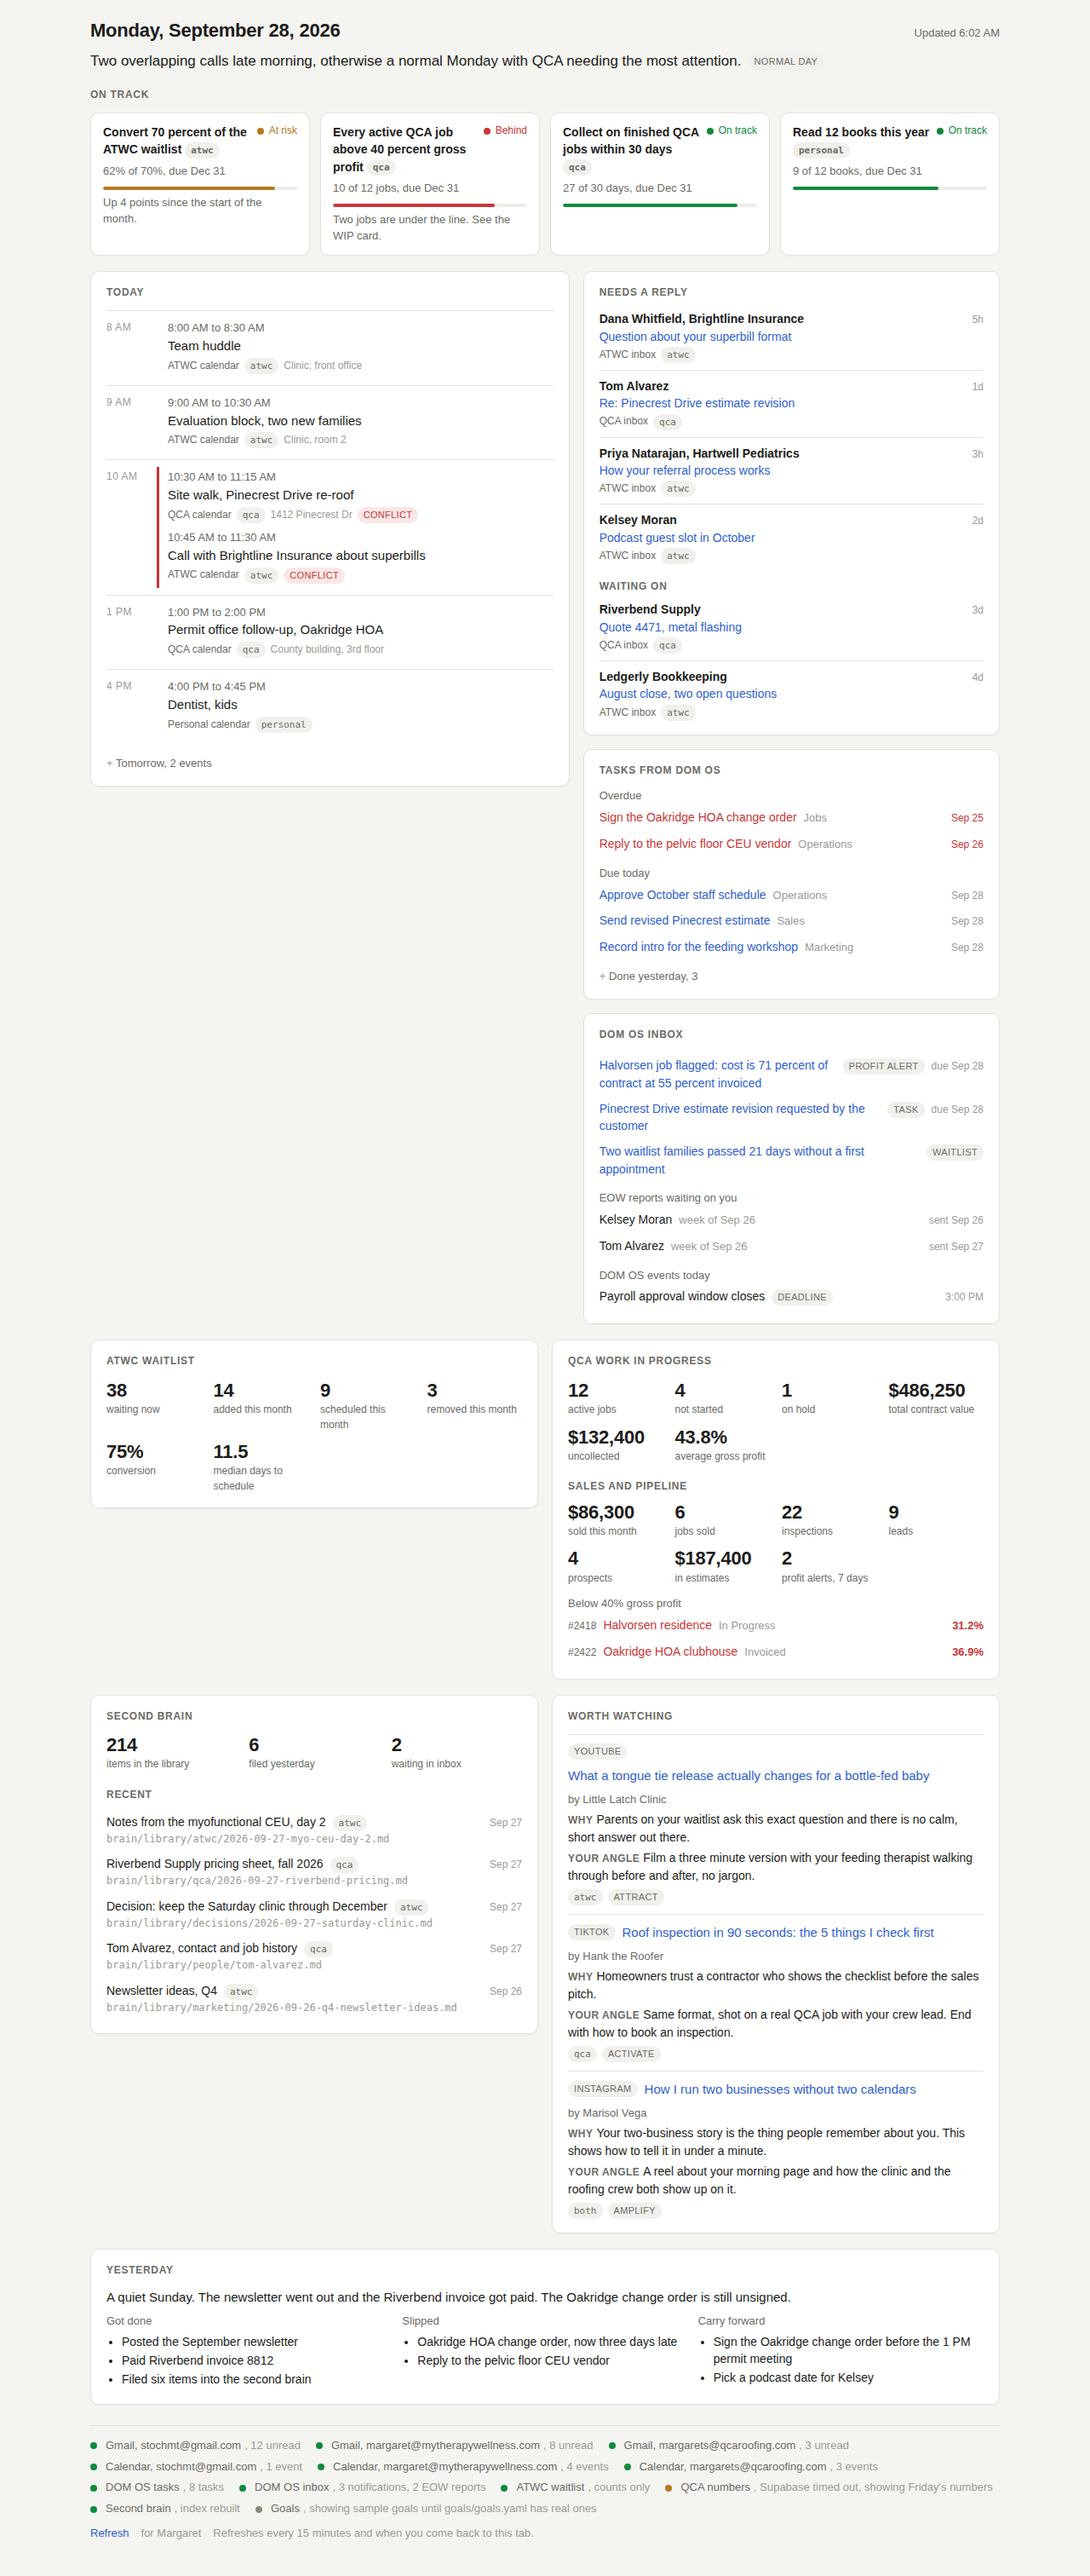
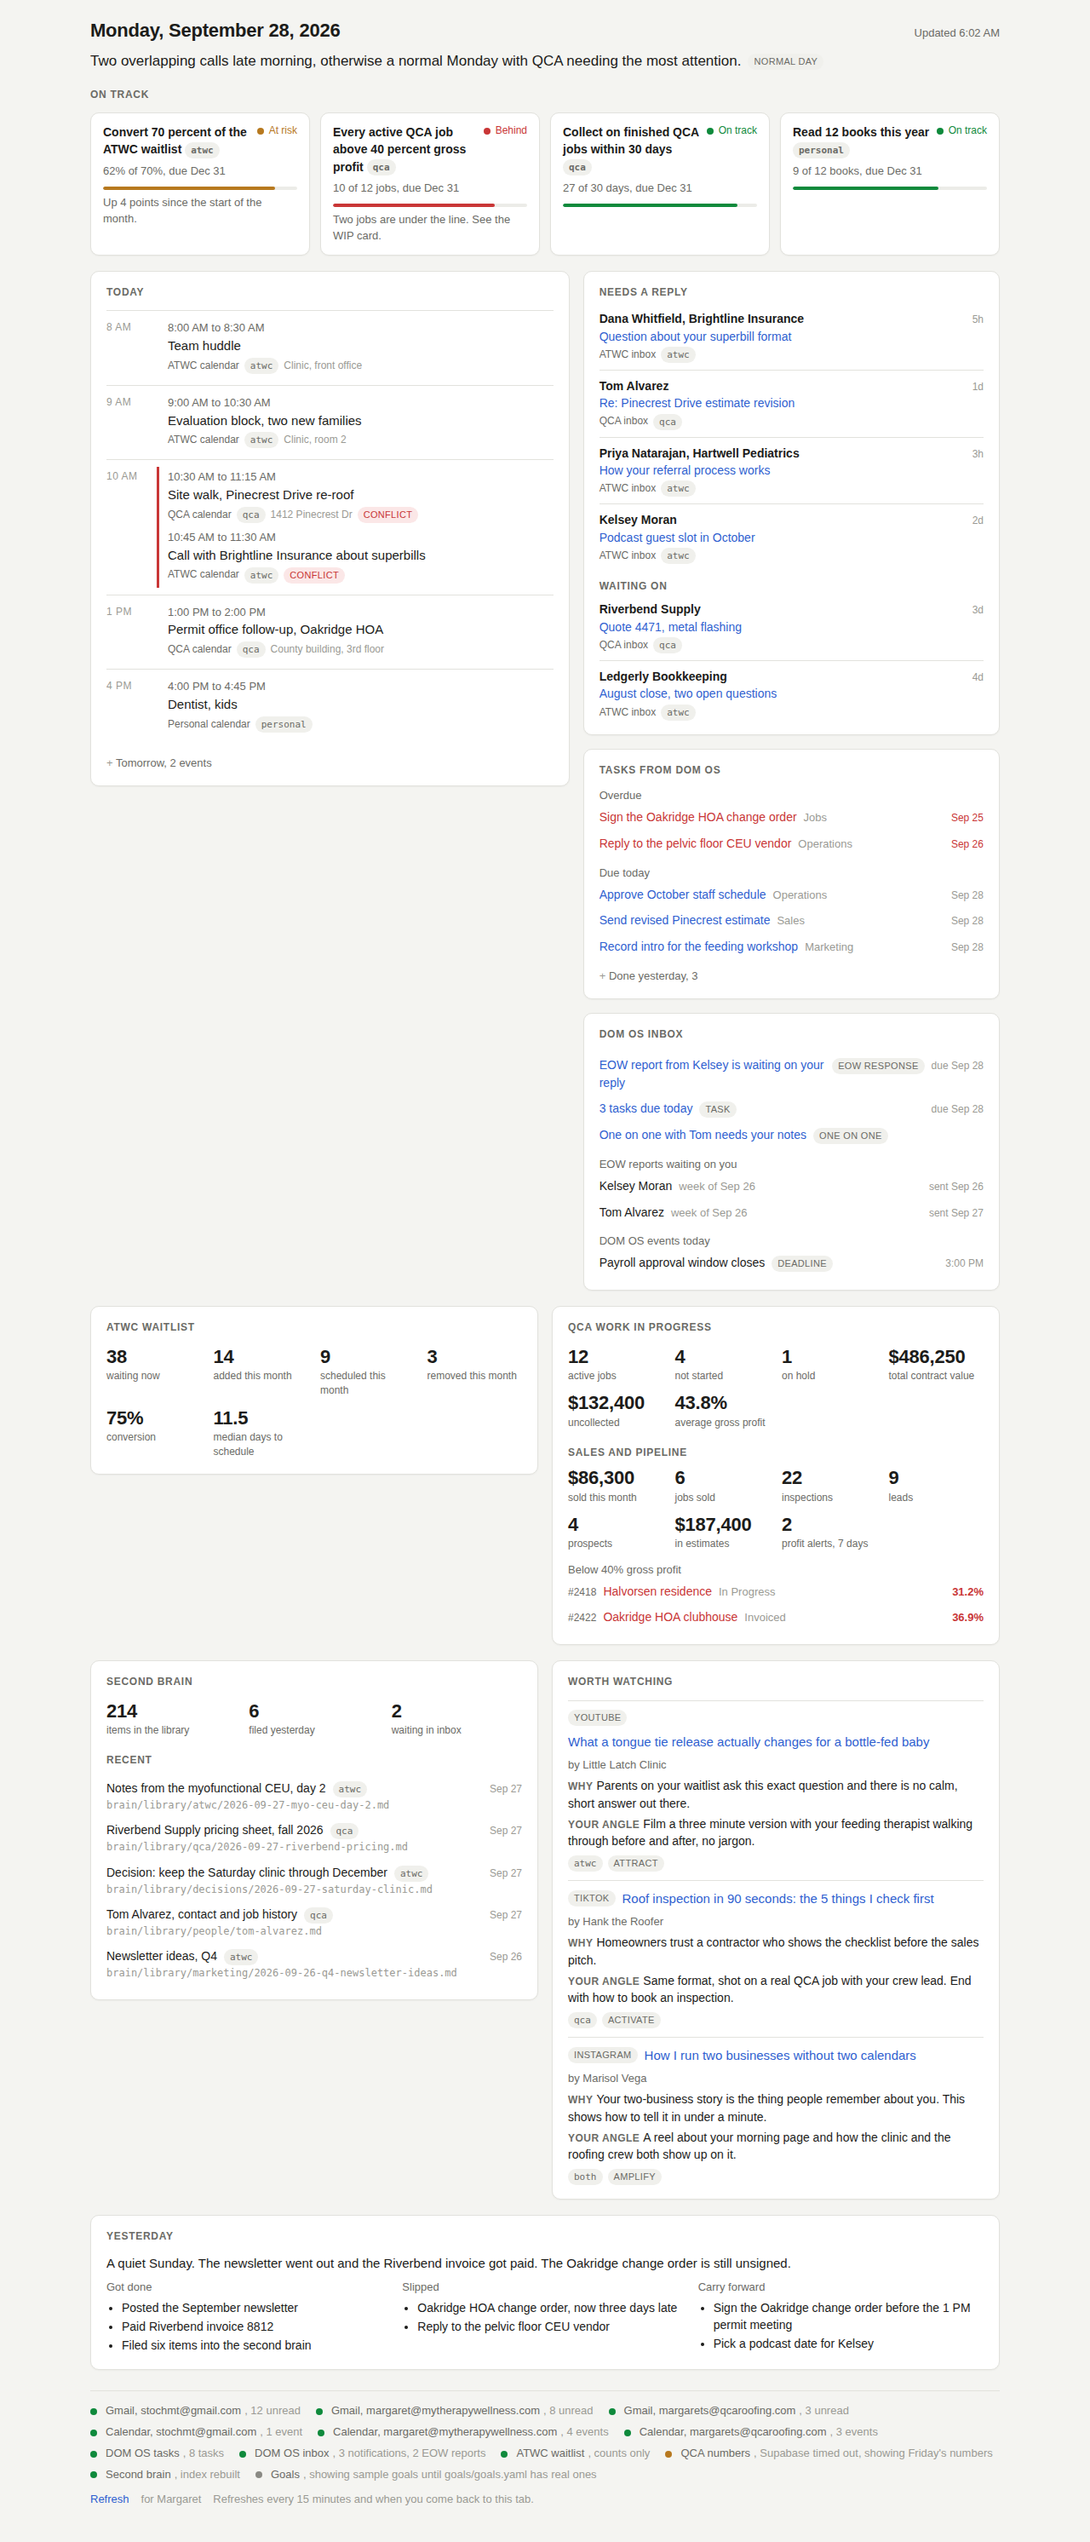
Align skills and dashboard sample with the collector's query names
Claude-Session: https://claude.ai/code/session_018ZzigaZkybfeW4xNsRjFeo

diff --git a/hermes/skills/agents/finance-metrics/SKILL.md b/hermes/skills/agents/finance-metrics/SKILL.md
@@ -24,7 +24,7 @@ You do the arithmetic Margaret should never have to redo. You take real numbers,
 ## Inputs you read
 
 - `goals[]`, `businesses.atwc.waitlist`, `businesses.qca.wip`, `businesses.qca.pipeline`, `businesses.qca.sales_month` from today.json, pasted or loaded. Read these first, always.
-- For the sheet, DOM OS through the named read-only queries, run from the repo root when you were given the path: `python -m collectors.domos --query <name>` with `pipeline_summary`, `sales_month`, `wip_summary`, `targets`. Nothing else. Never write your own SQL or REST call.
+- For the sheet, DOM OS through the named read-only queries, run from the repo root when you were given the path: `python -m collectors.domos --query <name>` with `pipeline_summary`, `sales_month`, `collections_month`, `wip_summary`, `targets`. Nothing else. Never write your own SQL or REST call.
 - Numbers Margaret gives in the conversation, quoted exactly with the period they cover.
 - Brain notes pasted into your context: past sheets, past decisions on price, payer mix, deposit policy, including DOM OS knowledge entries mirrored under `brain/library/domos/`. Her saved numbers outrank any benchmark.
 - For `metric: domos` goals: the `source` in goals.yaml names the compute the collector runs. Report the collector's `current`; if you recompute, use the same inputs and say so.
@@ -37,7 +37,7 @@ QCA, all in DOM OS:
 2. Spend by source: not in DOM OS. Margaret supplies it (ad spend, referral fees, commissions, staff hours times a loaded rate). Blank until she does.
 3. Appointments: `sales_daily_logs.inspections`, summed over the period. Shown versus booked is not tracked separately; say so.
 4. Customers and dollars sold: `sales_daily_logs.jobs_sold` and `sales_daily_logs.sold_amount`, summed over the period, by `rep_name` when asked. Target: `company.monthly` 400000 from `shared_settings` key `qca-sales-targets`.
-5. Cash collected: `qca_collections.amount` summed by `payment_date` over the period. Target: `collections.monthly` 595984 from the same setting.
+5. Cash collected: `qca_collections.amount` summed by `payment_date` over the period (the `collections_month` query gives this month). Target: `collections.monthly` 595984 from the same setting.
 
 ATWC, all in DOM OS, aggregate only:
 

diff --git a/hermes/skills/agents/qca-ops/SKILL.md b/hermes/skills/agents/qca-ops/SKILL.md
@@ -22,7 +22,7 @@ You watch the jobs. You tell Margaret which jobs are making money, which are not
 ## Inputs you read
 
 - `businesses.qca.wip` from `dashboard/data/today.json` (active_jobs, not_started, on_hold, total_contract_value, uncollected, avg_gp_pct, jobs_below_40_gp with job, customer, gp_pct, status), `businesses.qca.pipeline` (leads, prospects, estimate_total), `businesses.qca.sales_month` (touches, inspections, estimates, sold, sold_amount), and `businesses.qca.profit_alerts_recent` (a count). Read these first, always.
-- For anything deeper, DOM OS through the named read-only queries, run from the repo root when you were given the path: `wip_summary`, `wip_low_gp`, `pipeline_summary`, `sales_month`, `profit_alerts`, `targets`, each as `python -m collectors.domos --query <name>`. Nothing else. Never write your own SQL or REST call.
+- For anything deeper, DOM OS through the named read-only queries, run from the repo root when you were given the path: `wip_summary`, `wip_low_gp`, `pipeline_summary`, `sales_month`, `collections_month`, `profit_alerts`, `targets`, each as `python -m collectors.domos --query <name>`. Nothing else. Never write your own SQL or REST call.
 - The DOM OS tables behind those numbers:
   - `qca_wip`: `job_number`, `customer`, `job_status`, `contract_amount`, `change_orders`, `actual_cost_to_date`, `invoiced_to_date`, `cash_collected_to_date`, `deposit`.
   - `qca_pipeline_jobs`: `milestone` (Lead or Prospect), `estimate_total`, `rep_name`, `lead_source`.

diff --git a/hermes/skills/jarvis-core/SKILL.md b/hermes/skills/jarvis-core/SKILL.md
@@ -58,7 +58,7 @@ Tables the collectors and queries read, all in the public schema, owner scoped b
 - `qca_wip`: job_number, customer, job_status, contract_amount, change_orders, actual_cost_to_date, invoiced_to_date, cash_collected_to_date, deposit. Queries: `wip_summary`, `wip_low_gp`.
 - `qca_pipeline_jobs`: milestone (Lead or Prospect), estimate_total, rep_name, lead_source. Query: `pipeline_summary`.
 - `sales_daily_logs`: rep_name, log_date, touches, inspections, estimates_written, jobs_sold, sold_amount. Query: `sales_month`.
-- `qca_collections`: payment_date, amount.
+- `qca_collections`: payment_date, amount. Query: `collections_month`.
 - `profit_alerts`: job_key, kind, detail, flagged_on. Query: `profit_alerts`.
 - `shared_settings` key `qca-sales-targets`: company.monthly 400000, collections.monthly 595984. Part of `targets`.
 - `knowledge_entries`: business (atwc, qca, both), category, title, content, active. Mirrored nightly into `brain/library/domos/`, so `brain.search` finds it. Live search: `knowledge_search --q "text"`.
